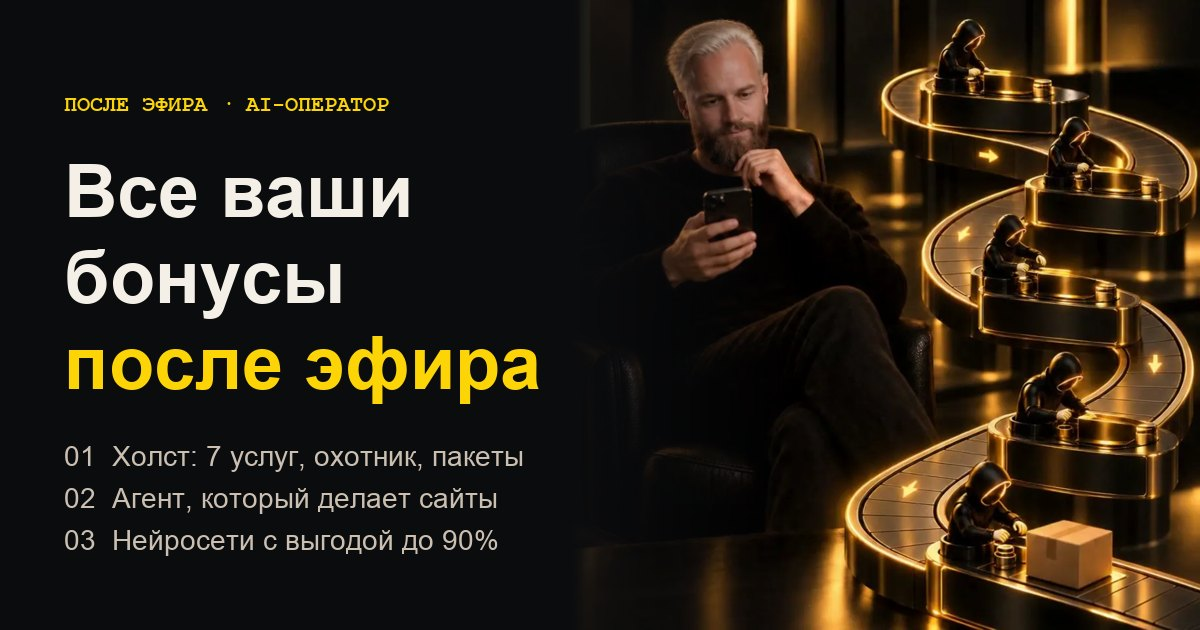
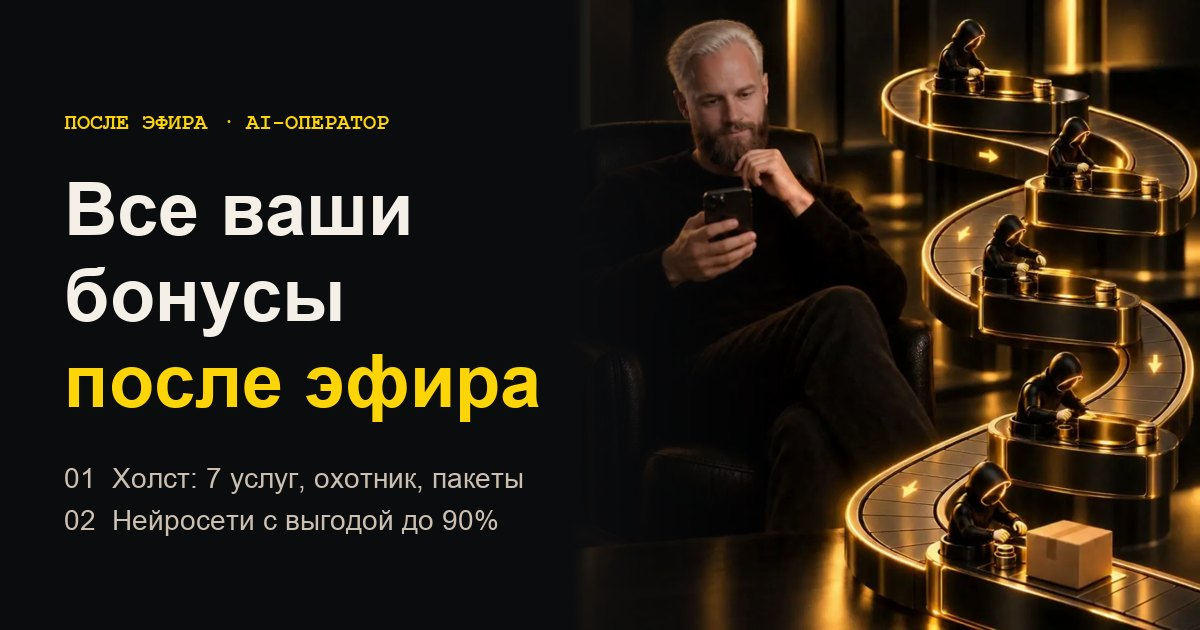
Бонусів два: прибрано агента сайтів; відносні посилання і ZIP
Софія 24.11: агента після вебу не дають — він платний і входить у програму.
Посилання index.html <-> holst.html відносні, щоб сайт працював з диска;
_zip.py збирає ZIP лише з потрібних файлів.

Changed region(s): [[0.0308, 0.2413, 0.4625, 0.6635], [0.0308, 0.6937, 0.4317, 0.8746], [0.0308, 0.1508, 0.3392, 0.2111]]

diff --git a/site/index.html b/site/index.html
@@ -4,11 +4,11 @@
 <meta charset="utf-8">
 <meta name="viewport" content="width=device-width,initial-scale=1,viewport-fit=cover">
 <title>Ваши бонусы после эфира · AI-Оператор</title>
-<meta name="description" content="Три бонуса после эфира AI-Оператор: холст с семью услугами, агент, который делает сайты, и нейросети с выгодой до 90%.">
+<meta name="description" content="Бонусы после эфира AI-Оператор: холст с семью услугами и нейросети с выгодой до 90%.">
 <meta name="theme-color" content="#0b0c0e">
 <meta property="og:type" content="website">
 <meta property="og:title" content="Ваши бонусы после эфира · AI-Оператор">
-<meta property="og:description" content="Холст с семью услугами, агент, который делает сайты, и нейросети с выгодой до 90%.">
+<meta property="og:description" content="Холст с семью услугами, охотником и пакетами — и нейросети с выгодой до 90%.">
 <meta property="og:image" content="https://ai-operator-holst.vercel.app/media/og-bonus.jpg">
 <meta property="og:image:width" content="1200"><meta property="og:image:height" content="630">
 <link rel="preconnect" href="https://fonts.googleapis.com">
@@ -79,9 +79,9 @@ h1 em{font-style:normal;color:var(--gold)}
 <header class="top"><div class="wrap">
   <span class="eyebrow k"><i></i>после эфира · AI-Оператор</span>
   <h1>Все ваши бонусы <em>после эфира</em></h1>
-  <p class="lead">Три подарка — у каждого своя кнопка. <b>Начните с первого:</b> там всё, что было на эфире.</p>
+  <p class="lead">Два подарка — у каждого своя кнопка. <b>Начните с первого:</b> там всё, что было на эфире.</p>
 </div></header>
-<main class="wrap list"><a class='bn' href='/holst'><div class='bn-img'><img src='media/hero-bg.webp' alt='Влад Ясько — холст AI-Оператора' loading='eager'><span class='bn-n'>01</span></div><div class='bn-t'><span class='k'>бонус 1 · холст</span><h2>Холст AI‑Оператора</h2><p>Все семь услуг, которые делают агенты: что это, сколько стоит и как выглядит. Там же — охотник, формула заработка и пакеты программы.</p><span class='pill'>Открыть холст<i>→</i></span></div></a><div class='bn wait'><div class='bn-img'><img src='demo/assets-sites/molly-desk-poster.jpg' alt='Сайт груминг-салона, собранный агентом' loading='lazy'><span class='bn-n'>02</span></div><div class='bn-t'><span class='k'>бонус 2 · агент</span><h2>Агент, который делает сайты</h2><p>С ним вы уже можете продавать первую услугу — сайты от $250. Внутри — инструкция, как его скачать и запустить.</p><span class='pill off'>Ссылку пришлёт менеджер</span></div></div><a class='bn' href='https://t.me/ai_diller_bot' target='_blank' rel='noopener'><div class='bn-img'><img src='media/bariga.webp' alt='AI-барыга: подписки на нейросети со скидкой' loading='lazy'><span class='bn-n'>03</span></div><div class='bn-t'><span class='k'>бонус 3 · @ai_diller_bot</span><h2>Нейросети с выгодой до 90%</h2><p>Подписки и готовые аккаунты на ChatGPT, Claude, Gemini, Perplexity и другие — через Telegram-бота.</p><small>Гарантий официального магазина здесь нет — это для тех, кто учится и не хочет тратить много.</small><span class='pill'>Открыть бота<i>→</i></span></div></a></main>
+<main class="wrap list"><a class='bn' href='holst.html'><div class='bn-img'><img src='media/hero-bg.webp' alt='Влад Ясько — холст AI-Оператора' loading='eager'><span class='bn-n'>01</span></div><div class='bn-t'><span class='k'>бонус 1 · холст</span><h2>Холст AI‑Оператора</h2><p>Все семь услуг, которые делают агенты: что это, сколько стоит и как выглядит. Там же — охотник, формула заработка и пакеты программы.</p><span class='pill'>Открыть холст<i>→</i></span></div></a><a class='bn' href='https://t.me/ai_diller_bot' target='_blank' rel='noopener'><div class='bn-img'><img src='media/bariga.webp' alt='AI-барыга: подписки на нейросети со скидкой' loading='lazy'><span class='bn-n'>02</span></div><div class='bn-t'><span class='k'>бонус 2 · @ai_diller_bot</span><h2>Нейросети с выгодой до 90%</h2><p>Подписки и готовые аккаунты на ChatGPT, Claude, Gemini, Perplexity и другие — через Telegram-бота.</p><small>Гарантий официального магазина здесь нет — это для тех, кто учится и не хочет тратить много.</small><span class='pill'>Открыть бота<i>→</i></span></div></a></main>
 <footer class="foot"><div class="wrap">
   <p>Остались вопросы — напишите менеджеру, который прислал эту страницу. Он же поможет выбрать пакет и примет оплату.</p>
   <span>AI-Оператор · Влад Ясько</span>

diff --git a/site/holst.html b/site/holst.html
@@ -678,7 +678,7 @@ input[type=range]:focus-visible{box-shadow:0 0 0 3px rgba(253,213,6,.3)}
 
 <nav class="topnav" id="topnav" aria-label="Разделы">
   <a class="brand" href="#top"><i></i>Холст</a>
-  <a class="back" href="/">← все бонусы</a>
+  <a class="back" href="index.html">← все бонусы</a>
   <div class="tn">
     <a href="#svodka">Каталог</a><a href="#uslugi">7 услуг</a><a href="#ohotnik">Охотник</a><a href="#calc">Формула</a><a href="#pakety">Пакеты</a>
   </div>
@@ -1022,7 +1022,7 @@ input[type=range]:focus-visible{box-shadow:0 0 0 3px rgba(253,213,6,.3)}
     <p>Все видео и картинки — работы агентов: сайты, ролики, макеты, переписки и оплаты. Цены — как в каталоге эфира: за пакет или за месяц.</p>
     <p>Калькулятор показывает потенциал по конверсиям, а не обещанный доход. Результаты индивидуальны.</p>
   </div>
-  <div class="foot-r"><a class="foot-up" href="/">← все бонусы</a><a class="foot-up" href="#top">наверх ↑</a></div>
+  <div class="foot-r"><a class="foot-up" href="index.html">← все бонусы</a><a class="foot-up" href="#top">наверх ↑</a></div>
 </div>
 </footer>
 

diff --git a/build.py b/build.py
@@ -582,7 +582,7 @@ def hero():
 NAV = """
 <nav class="topnav" id="topnav" aria-label="Разделы">
   <a class="brand" href="#top"><i></i>Холст</a>
-  <a class="back" href="/">← все бонусы</a>
+  <a class="back" href="index.html">← все бонусы</a>
   <div class="tn">
     <a href="#svodka">Каталог</a><a href="#uslugi">7 услуг</a><a href="#ohotnik">Охотник</a><a href="#calc">Формула</a><a href="#pakety">Пакеты</a>
   </div>
@@ -603,7 +603,7 @@ FOOT = """
     <p>Все видео и картинки — работы агентов: сайты, ролики, макеты, переписки и оплаты. Цены — как в каталоге эфира: за пакет или за месяц.</p>
     <p>Калькулятор показывает потенциал по конверсиям, а не обещанный доход. Результаты индивидуальны.</p>
   </div>
-  <div class="foot-r"><a class="foot-up" href="/">← все бонусы</a><a class="foot-up" href="#top">наверх ↑</a></div>
+  <div class="foot-r"><a class="foot-up" href="index.html">← все бонусы</a><a class="foot-up" href="#top">наверх ↑</a></div>
 </div>
 </footer>"""
 
@@ -643,8 +643,9 @@ def page():
 
 
 # ─────────────────────────────── страница бонусов (18.11, Влад: «сайт-заглушка: вот все твои бонусы после эфира»)
-# Живёт по старой ссылке (её уже шлют менеджеры), холст переехал на /holst.
-AGENT_URL = ''  # ссылка на агента, который делает сайты (с инструкцией) — дать Мирославу; пока пусто, кнопка неактивна
+# Живёт по старой ссылке (её уже шлют менеджеры), холст — holst.html (и /holst через rewrite).
+# 24.11 Софія: «мы не даем агента после веба — это платно и входит в программу курса» → карточку агента убрали, бонусов два.
+# Ссылки между страницами относительные (holst.html / index.html), чтобы ZIP работал и с диска.
 BARIGA_URL = 'https://t.me/ai_diller_bot'
 
 
@@ -655,21 +656,15 @@ def hub_page():
         body = (f"<div class='bn-img'><img src='{img}' alt='{alt}' loading='{'eager' if n == 1 else 'lazy'}'><span class='bn-n'>{n:02d}</span></div>"
                 f"<div class='bn-t'><span class='k'>{k}</span><h2>{title}</h2><p>{text}</p>"
                 + (f"<small>{note}</small>" if note else ''))
-        if not href:
-            return (f"<div class='bn wait'>{body}<span class='pill off'>Ссылку пришлёт менеджер</span></div></div>")
         tgt = " target='_blank' rel='noopener'" if ext else ''
         return f"<a class='bn' href='{href}'{tgt}>{body}<span class='pill'>{btn}<i>→</i></span></div></a>"
 
     cards = (
-        card(1, '/holst', 'media/hero-bg.webp', 'Влад Ясько — холст AI-Оператора', 'бонус 1 · холст',
+        card(1, 'holst.html', 'media/hero-bg.webp', 'Влад Ясько — холст AI-Оператора', 'бонус 1 · холст',
              'Холст AI‑Оператора',
              'Все семь услуг, которые делают агенты: что это, сколько стоит и как выглядит. Там же — охотник, формула заработка и пакеты программы.',
              'Открыть холст')
-        + card(2, AGENT_URL, 'demo/assets-sites/molly-desk-poster.jpg', 'Сайт груминг-салона, собранный агентом', 'бонус 2 · агент',
-               'Агент, который делает сайты',
-               'С ним вы уже можете продавать первую услугу — сайты от $250. Внутри — инструкция, как его скачать и запустить.',
-               'Забрать агента', ext=True)
-        + card(3, BARIGA_URL, 'media/bariga.webp', 'AI-барыга: подписки на нейросети со скидкой', 'бонус 3 · @ai_diller_bot',
+        + card(2, BARIGA_URL, 'media/bariga.webp', 'AI-барыга: подписки на нейросети со скидкой', 'бонус 2 · @ai_diller_bot',
                'Нейросети с выгодой до 90%',
                'Подписки и готовые аккаунты на ChatGPT, Claude, Gemini, Perplexity и другие — через Telegram-бота.',
                'Открыть бота', note='Гарантий официального магазина здесь нет — это для тех, кто учится и не хочет тратить много.', ext=True))
@@ -679,11 +674,11 @@ def hub_page():
 <meta charset="utf-8">
 <meta name="viewport" content="width=device-width,initial-scale=1,viewport-fit=cover">
 <title>Ваши бонусы после эфира · AI-Оператор</title>
-<meta name="description" content="Три бонуса после эфира AI-Оператор: холст с семью услугами, агент, который делает сайты, и нейросети с выгодой до 90%.">
+<meta name="description" content="Бонусы после эфира AI-Оператор: холст с семью услугами и нейросети с выгодой до 90%.">
 <meta name="theme-color" content="#0b0c0e">
 <meta property="og:type" content="website">
 <meta property="og:title" content="Ваши бонусы после эфира · AI-Оператор">
-<meta property="og:description" content="Холст с семью услугами, агент, который делает сайты, и нейросети с выгодой до 90%.">
+<meta property="og:description" content="Холст с семью услугами, охотником и пакетами — и нейросети с выгодой до 90%.">
 <meta property="og:image" content="https://ai-operator-holst.vercel.app/media/og-bonus.jpg">
 <meta property="og:image:width" content="1200"><meta property="og:image:height" content="630">
 <link rel="preconnect" href="https://fonts.googleapis.com">
@@ -695,7 +690,7 @@ def hub_page():
 <header class="top"><div class="wrap">
   <span class="eyebrow k"><i></i>после эфира · AI-Оператор</span>
   <h1>Все ваши бонусы <em>после эфира</em></h1>
-  <p class="lead">Три подарка — у каждого своя кнопка. <b>Начните с первого:</b> там всё, что было на эфире.</p>
+  <p class="lead">Два подарка — у каждого своя кнопка. <b>Начните с первого:</b> там всё, что было на эфире.</p>
 </div></header>
 <main class="wrap list">{cards}</main>
 <footer class="foot"><div class="wrap">
@@ -717,4 +712,4 @@ if __name__ == '__main__':
                     "rewrites": [{"source": "/holst", "destination": "/holst.html"}],
                     "redirects": [{"source": "/holst/", "destination": "/holst", "permanent": False}]}, indent=1))
     print(f'site/holst.html: {len(out) / 1024:.1f} КБ, услуг {len(USLUGI)}; site/index.html (бонусы): {len(hub) / 1024:.1f} КБ'
-          + ('' if AGENT_URL else ' · AGENT_URL пуст — кнопка агента неактивна'))
+)

diff --git a/_zip.py b/_zip.py
@@ -1,0 +1,42 @@
+"""ZIP сайту з усім потрібним: обходить index.html → holst.html → демо-сторінки й збирає лише ті файли, на які є посилання.
+Запуск: python3 _zip.py  →  dist/ai-operator-holst-site.zip"""
+import os, re, zipfile, urllib.parse
+SITE = os.path.join(os.path.dirname(os.path.abspath(__file__)), 'site')
+OUT = os.path.join(os.path.dirname(SITE), 'dist', 'ai-operator-holst-site.zip')
+EXT = r'(?:html|css|js|json|webp|jpg|jpeg|png|gif|svg|mp4|webm|mp3|m4a|woff2?|ttf|ico|txt|avif)'
+PAT = re.compile(r'''["'(=\s]((?:\.{0,2}/)?[\w\-./%]+\.''' + EXT + r''')(?:\?[^"')\s]*)?(?=["')\s#])''', re.I)
+seen, todo = set(), ['index.html', 'holst.html']
+while todo:
+    rel = todo.pop()
+    if rel in seen: continue
+    p = os.path.join(SITE, rel)
+    if not os.path.isfile(p): continue
+    seen.add(rel)
+    if not rel.endswith(('.html', '.css', '.js')): continue
+    txt = open(p, encoding='utf-8', errors='ignore').read()
+    base = os.path.dirname(rel)
+    for m in PAT.finditer(txt):
+        u = urllib.parse.unquote(m.group(1))
+        if u.startswith(('http', '//')): continue
+        cand = os.path.normpath(os.path.join(base, u.lstrip('/') if u.startswith('/') else u))
+        if u.startswith('/'): cand = os.path.normpath(u.lstrip('/'))
+        if not cand.startswith('..') and cand not in seen: todo.append(cand)
+    # директорії, що вантажаться за шаблоном (кадри охотника hf/001.webp…)
+for d in ('hf',):
+    for f in os.listdir(os.path.join(SITE, d)):
+        seen.add(os.path.join(d, f))
+for f in os.listdir(SITE):  # демо-сторінки, які відкриваються з data-demo (у т.ч. з ?v=)
+    pass
+os.makedirs(os.path.dirname(OUT), exist_ok=True)
+seen.discard('vercel.json')
+with zipfile.ZipFile(OUT, 'w', zipfile.ZIP_STORED) as z:
+    for rel in sorted(seen):
+        z.write(os.path.join(SITE, rel), 'ai-operator-holst/' + rel)
+    z.writestr('ai-operator-holst/README.txt',
+        'Сайт «Ваши бонусы после эфира» + «Холст AI-Оператора».\n'
+        'Открыть: index.html (бонусы) или holst.html (холст) — двойным кликом, работает без интернета, кроме шрифтов и ссылки на Telegram-бота.\n'
+        'Залить на хостинг: всю папку как есть, корень — index.html.\n'
+        'Прод: https://ai-operator-holst.vercel.app (холст также по /holst).\n')
+size = sum(os.path.getsize(os.path.join(SITE, r)) for r in seen)
+total = sum(os.path.getsize(os.path.join(dp, f)) for dp, _, fs in os.walk(SITE) for f in fs)
+print(f'файлов {len(seen)}, {size/1e6:.1f} МБ из {total/1e6:.1f} МБ в site/; zip {os.path.getsize(OUT)/1e6:.1f} МБ → {OUT}')

diff --git a/README.md b/README.md
@@ -4,7 +4,7 @@
 
 | Адреса | Що це |
 |---|---|
-| `/` | «Все ваши бонусы после эфира»: три картки (холст, агент для сайтів, AI-барига). Це посилання менеджери надсилають після вебінару. |
+| `/` | «Все ваши бонусы после эфира»: дві картки, холст і AI-барига. Це посилання менеджери надсилають після вебінару. |
 | `/holst` | Холст: 7 послуг з прикладами, охотник, «Формула заработка», пакети Bronze / Silver / Gold. |
 
 ## Структура
@@ -31,11 +31,12 @@ python3 build.py
 cd site && vercel deploy --prod --yes
 ```
 
+ZIP для передачі (HTML + усі файли, працює з диска): `python3 _zip.py` → `dist/ai-operator-holst-site.zip`.
+
 Перевірити локально: `python3 -m http.server 8781`, потім відкрити `http://127.0.0.1:8781/site/` і `.../site/holst.html`.
 
 ## Що міняти найчастіше (константи в build.py)
 
-- `AGENT_URL` — посилання на агента, який робить сайти. Поки порожнє, на кнопці написано «Ссылку пришлёт менеджер».
 - `HUNTER_LEFT` — скільки місць на AI-охотника залишилось із 20.
 - `PAKETY` — пакети й ціни (перекреслена й нова).
 
@@ -43,9 +44,11 @@ cd site && vercel deploy --prod --yes
 
 - Охотника не продають і не роздають. На сторінках не має бути посилань на ai-hunter чи демо охотника, тільки «в подарок первым 20 купившим».
 - Оплату приймають менеджери, тому посилань на оплату на сторінках немає.
+- Агента, який робить сайти, після вебінару не дають: він платний і входить у програму (Софія, 24.11).
 
 ## Історія
 
 - 29.09.2026: холст v2 за голосовим Влада.
 - 01.10.2026: правки за дзвінком 30.09 (`AUDIT-2026-10-01.md`, `CHANGES-2026-10-01.md`).
 - 19.11.2026: правки за синком 18.11 (`docs/ROZBIR-2026-11-18.md`). Зʼявилася сторінка бонусів, холст переїхав на `/holst` і став простішим.
+- 24.11.2026: картку агента прибрано, бонусів два. Посилання між сторінками відносні, тож ZIP працює з диска.
